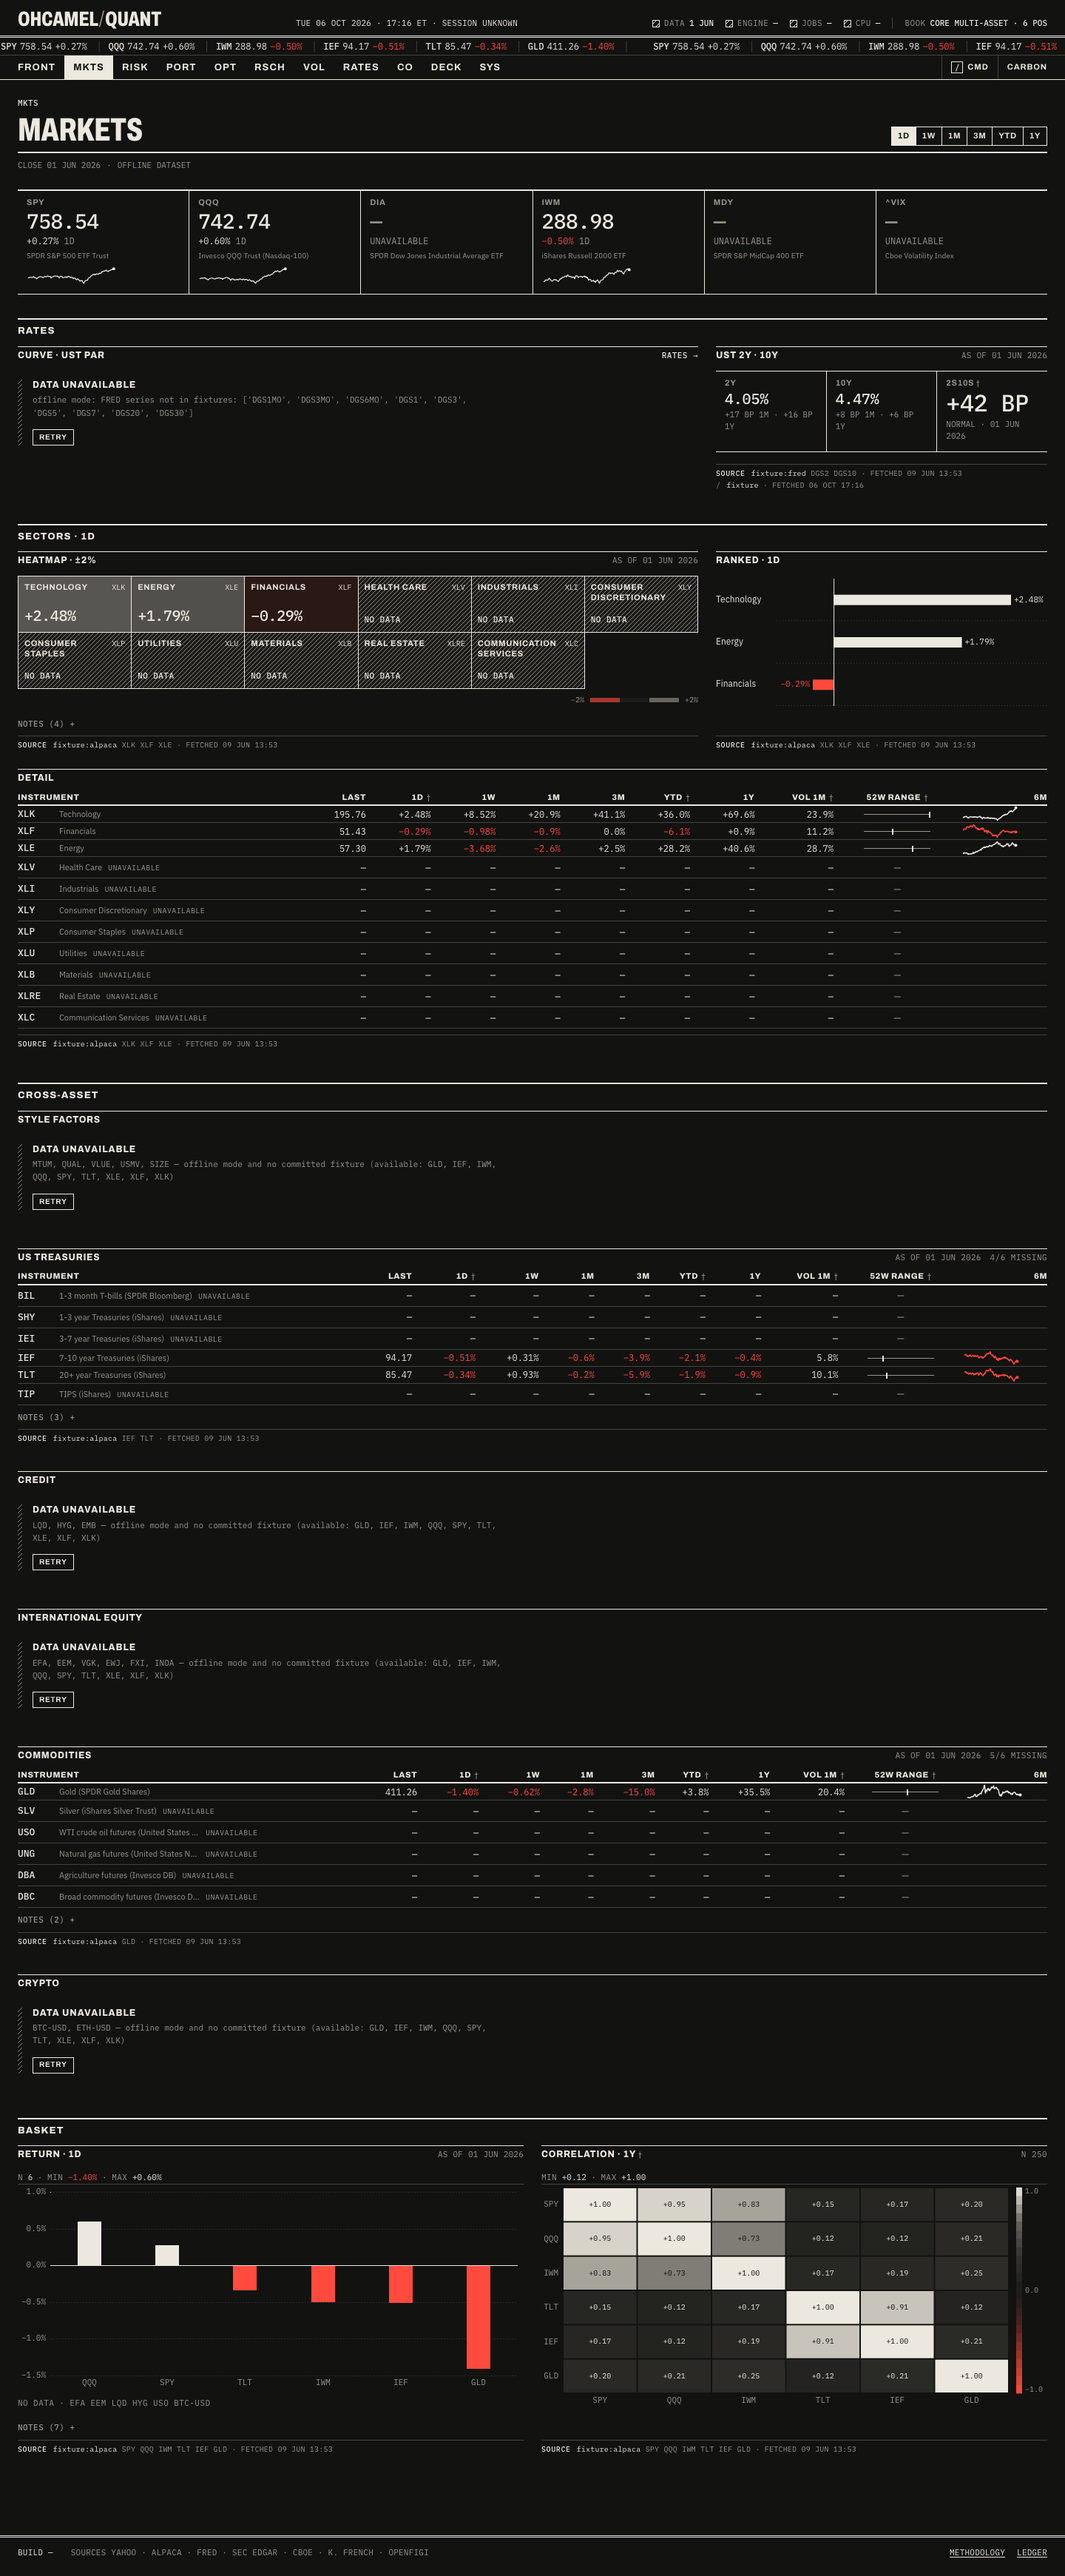
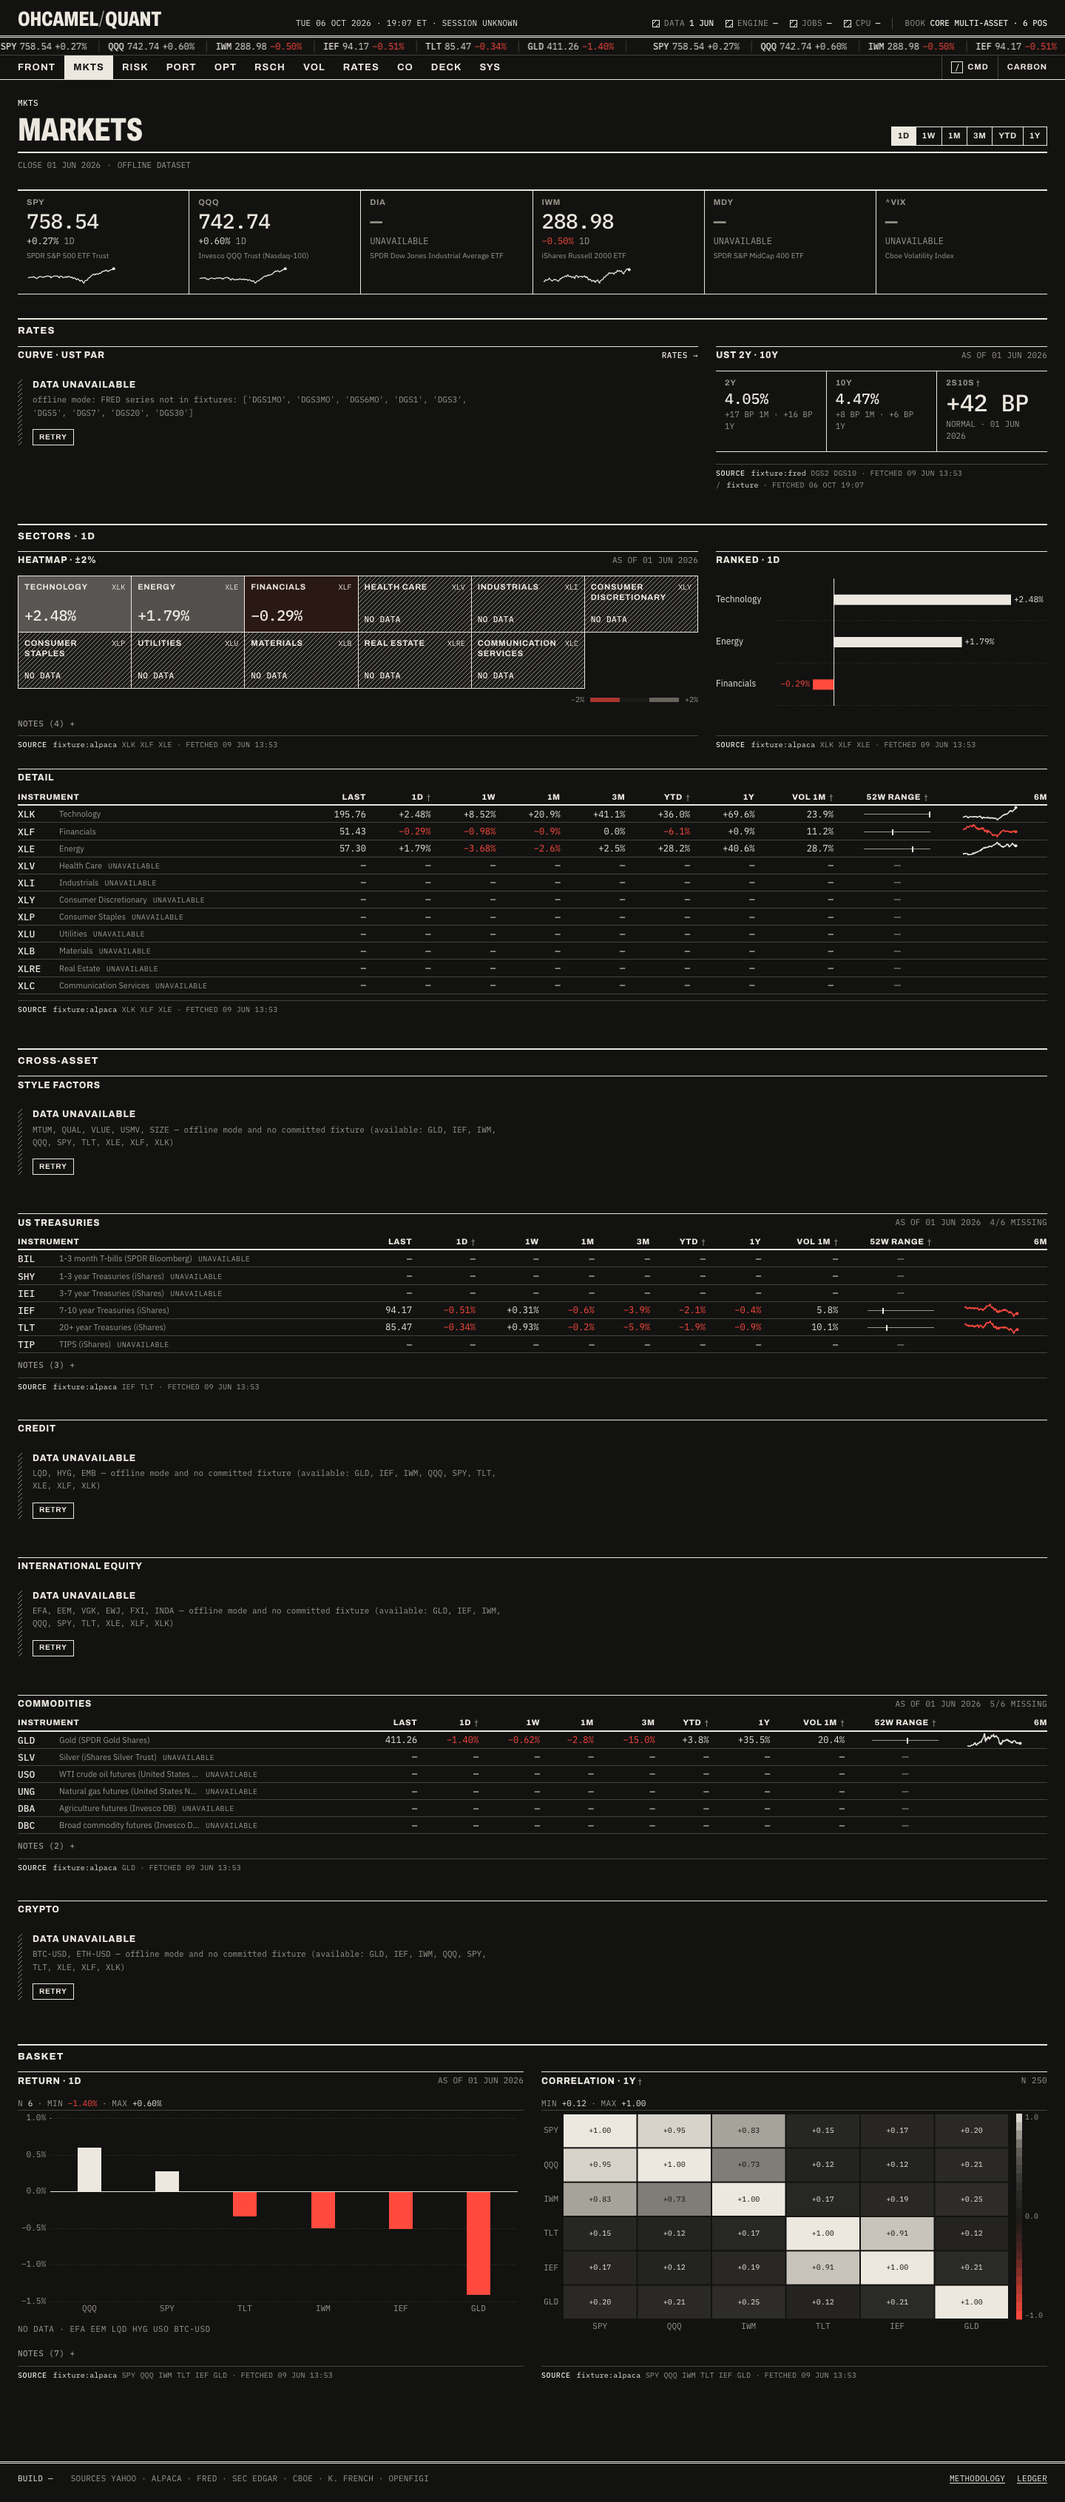
fix(web): one row height in every Markets table
UNAVAILABLE rows were 28px against 22px for rows with data. Two causes:
.mk-inst used align-items: baseline, so the 2xs UNAVAILABLE tag beside
the xs name grew the inline-flex box; and an empty Sparkline rendered an
inline svg without .oc-sparkline, which sat on the text baseline and
added descender space. .mk-inst is centred and capped at the 21px line;
the empty Sparkline is the same block box as a drawn one.

screenshots.mjs now fails on a dense table whose body rows differ in
height (RHYTHM_ROUTES, /markets for now); it caught 22-28px before the
fix. Markets screenshots refreshed at 1440 and 380, paper and carbon.

diff --git a/quant/web/src/components/Sparkline.tsx b/quant/web/src/components/Sparkline.tsx
@@ -10,7 +10,7 @@ import { useId } from "react";
 export function Sparkline({ values, width = 96, height = 28, color, area = true, strokeWidth = 1.5, baseline, className, title }: { values: (number | null | undefined)[]; width?: number; height?: number; color?: string; area?: boolean; strokeWidth?: number; baseline?: number; className?: string; title?: string }) {
   const id = `oc-spark-${useId().replace(/[^a-zA-Z0-9_-]/g, "")}`;
   const pts = values.map((v, i) => [i, v] as const).filter((p): p is readonly [number, number] => typeof p[1] === "number" && Number.isFinite(p[1]));
-  if (pts.length < 2) return <svg width={width} height={height} className={className} aria-hidden />;
+  if (pts.length < 2) return <svg width={width} height={height} className={`oc-sparkline ${className ?? ""}`} aria-hidden />;
   const ys = pts.map((p) => p[1]);
   let lo = Math.min(...ys);
   let hi = Math.max(...ys);

diff --git a/quant/web/src/components/Sparkline.test.tsx b/quant/web/src/components/Sparkline.test.tsx
@@ -13,4 +13,9 @@ describe("Sparkline (spec 3.1/3.5: no gradients, area fills are hatched)", () =>
     const flat = renderToStaticMarkup(<Sparkline values={[1, 2, 3]} area={false} />);
     expect(flat).not.toMatch(/<pattern/);
   });
+  it("lays out an empty sparkline as the same block box as a drawn one, so table rows keep one height", () => {
+    const empty = renderToStaticMarkup(<Sparkline values={[]} width={76} height={22} className="x" />);
+    expect(empty).toMatch(/class="oc-sparkline x"/);
+    expect(empty).toMatch(/width="76"/);
+  });
 });

diff --git a/quant/web/src/pages/markets/markets.css b/quant/web/src/pages/markets/markets.css
@@ -132,7 +132,10 @@ a.mk-fig:focus-visible {
 /* table cells */
 .mk-inst {
   display: inline-flex;
-  align-items: baseline;
+  align-items: center;
+  height: 21px;
+  line-height: 21px;
+  vertical-align: middle;
   gap: var(--sp-2);
   min-width: 0;
 }
